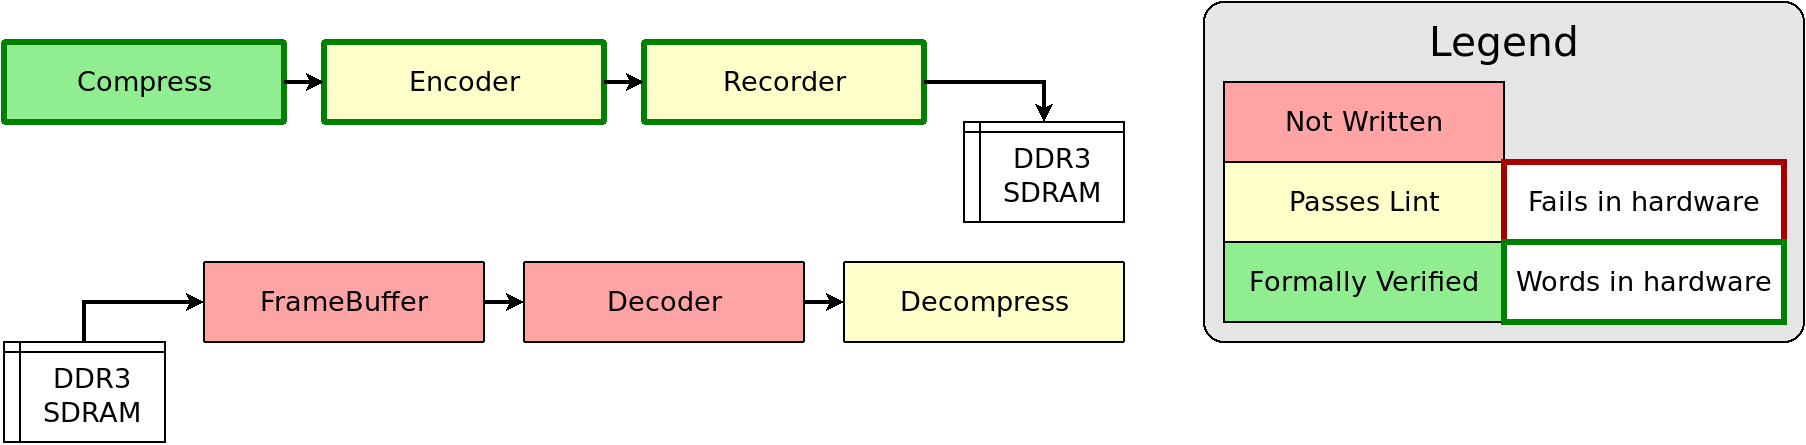
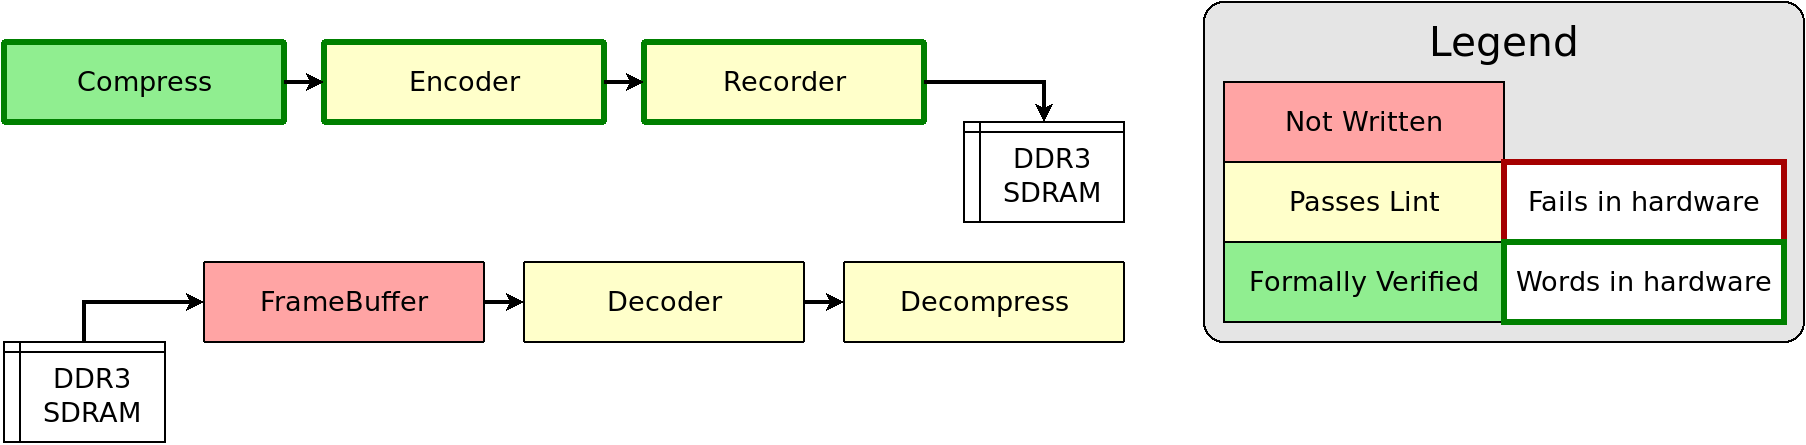
The decoder now passes lint

Changed region(s): [[0.2791, 0.5843, 0.4651, 0.7888]]

diff --git a/README.md b/README.md
@@ -98,9 +98,9 @@ The current (and planned) components of this repository include:
   It removes the header and trailer, detects the width and height, and
   produces a one-frame AXI video stream as an output.  That is, it will
   produce one frame per incoming QOI image once completed.  This component is
-  even less developed than the [QOI decompressor](rtl/qoi_decompress.v), since
-  this one doesn't even pass the lint check yet.  As such, it's clearly
-  not ready for prime time ... yet.
+  about as developed as the [QOI decompressor](rtl/qoi_decompress.v), since
+  both only pass lint checks.  As such, neither are ready for prime time
+  ... yet.
 - _qoi_framebuffer_ is not yet written.  Once written,
   this component will repeatedly read QOI image files from memory, and
   feed them to the decoder.  The result (should) be a proper video
